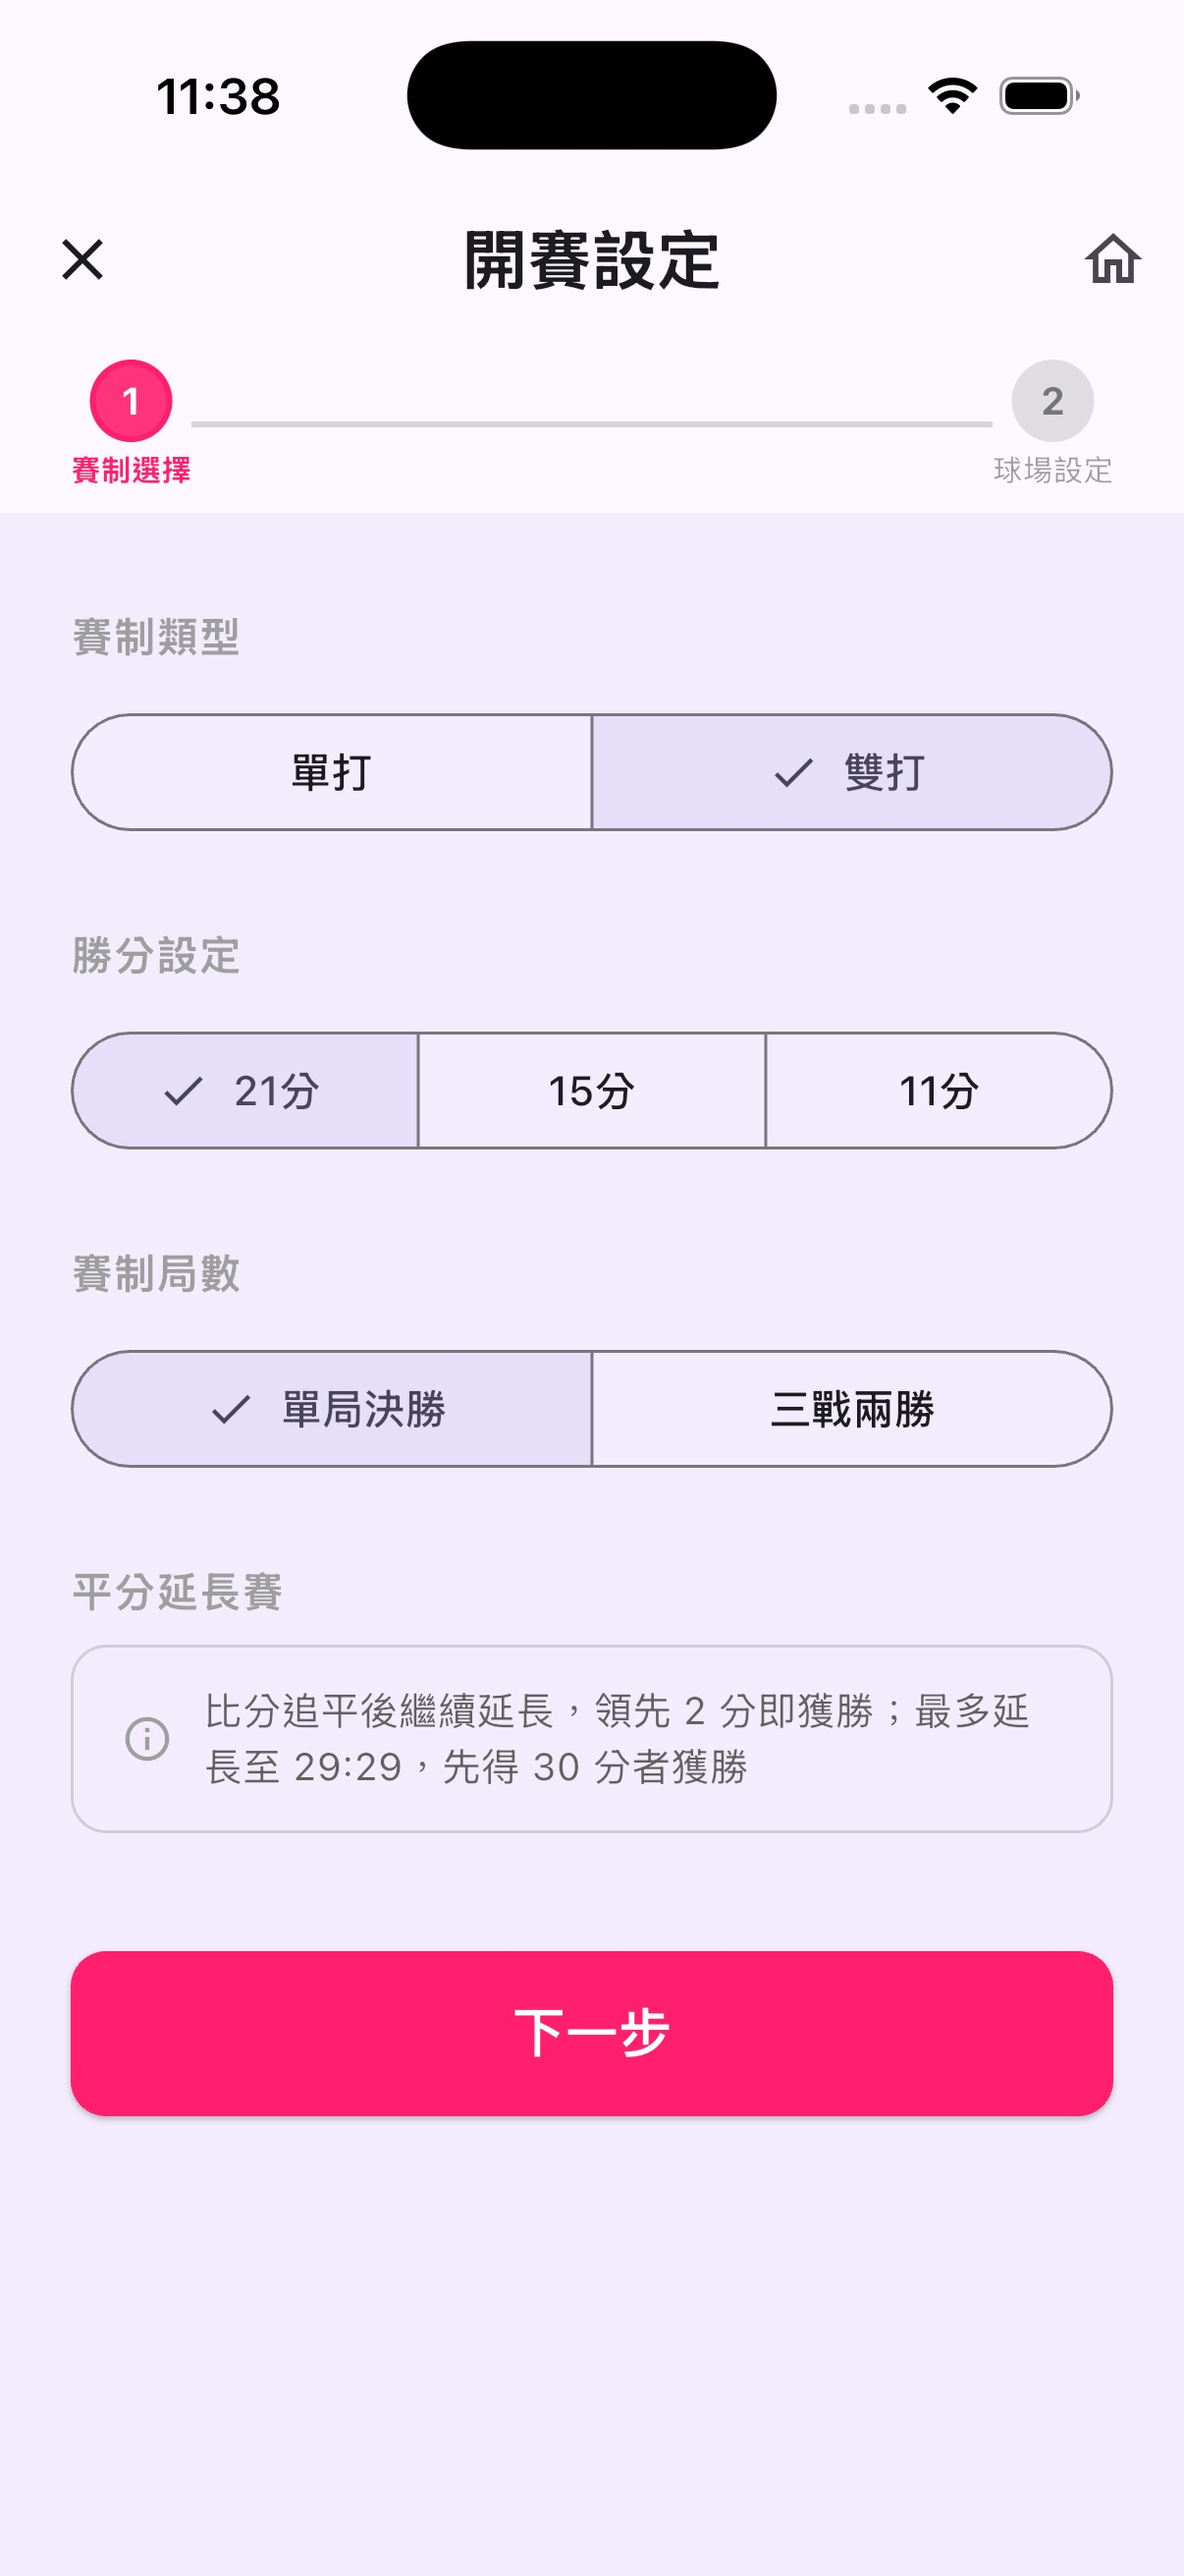
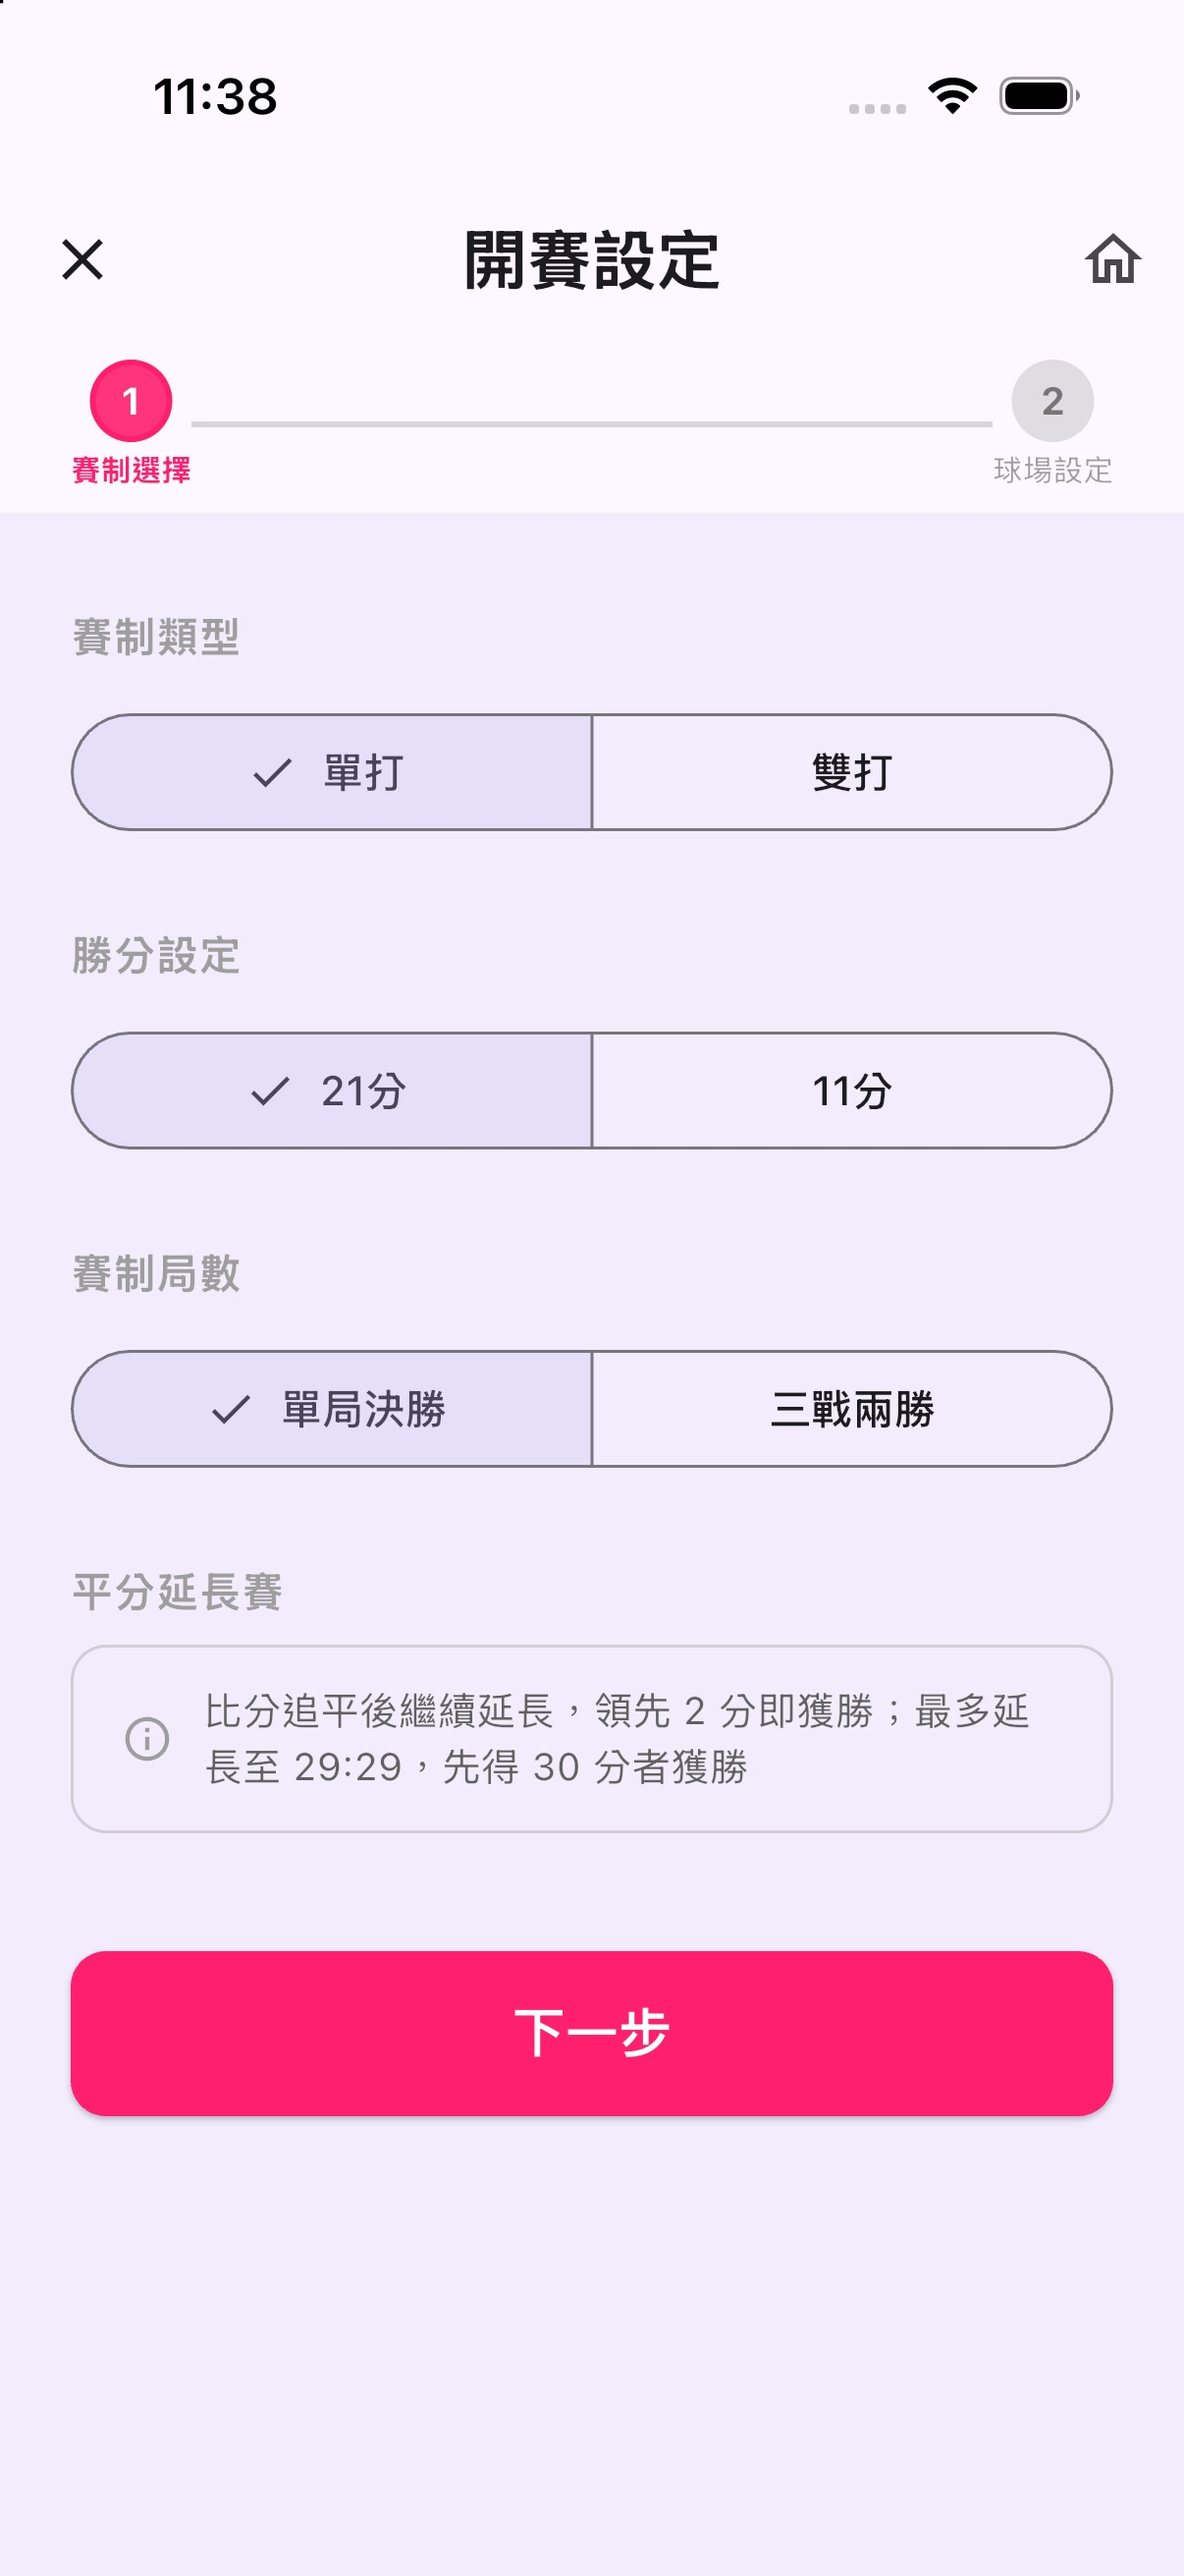
開賽設定截圖與賽制文案移除已下架的 15 分制
首頁與支援頁共用的 setup.jpg 仍是 15 分賽制時期的舊畫面，兩頁文案也寫著
21／15／11 分制。換上重拍的截圖，文案統一為 21／11 分制。

diff --git a/support.html b/support.html
@@ -114,7 +114,7 @@
           <p>打開 App 按「開始比賽」，先選賽制，再填隊伍與球員。</p>
           <figure class="fig">
             <div class="shot is-phone"><a class="zoom" href="images/setup.jpg" target="_blank" rel="noopener"><img src="images/setup.jpg" alt="開賽設定畫面：賽制類型、勝分設定、賽制局數" loading="lazy"></a></div>
-            <figcaption class="withzoom">單打或雙打、21／15／11 分制、單局決勝或三戰兩勝，開賽前先選好。</figcaption>
+            <figcaption class="withzoom">單打或雙打、21／11 分制、單局決勝或三戰兩勝，開賽前先選好。</figcaption>
           </figure>
           <p>球員名稱可以存成常用球員，下次開賽直接選。</p>
         </div>

diff --git a/index.html b/index.html
@@ -220,7 +220,7 @@
         <article class="benefit is-flip reveal" id="rules">
           <div class="benefit-copy">
             <h3 class="benefit-title">規則幫你管好</h3>
-            <p>21／15／11 分制、單局決勝或三戰兩勝，開賽前選好就不用再管。換發球、換邊、局數、賽末點與 Deuce 全部自動處理，按錯了隨時還原上一步。</p>
+            <p>21／11 分制、單局決勝或三戰兩勝，開賽前選好就不用再管。換發球、換邊、局數、賽末點與 Deuce 全部自動處理，按錯了隨時還原上一步。</p>
           </div>
           <div class="benefit-visual">
             <div class="shot is-phone">
